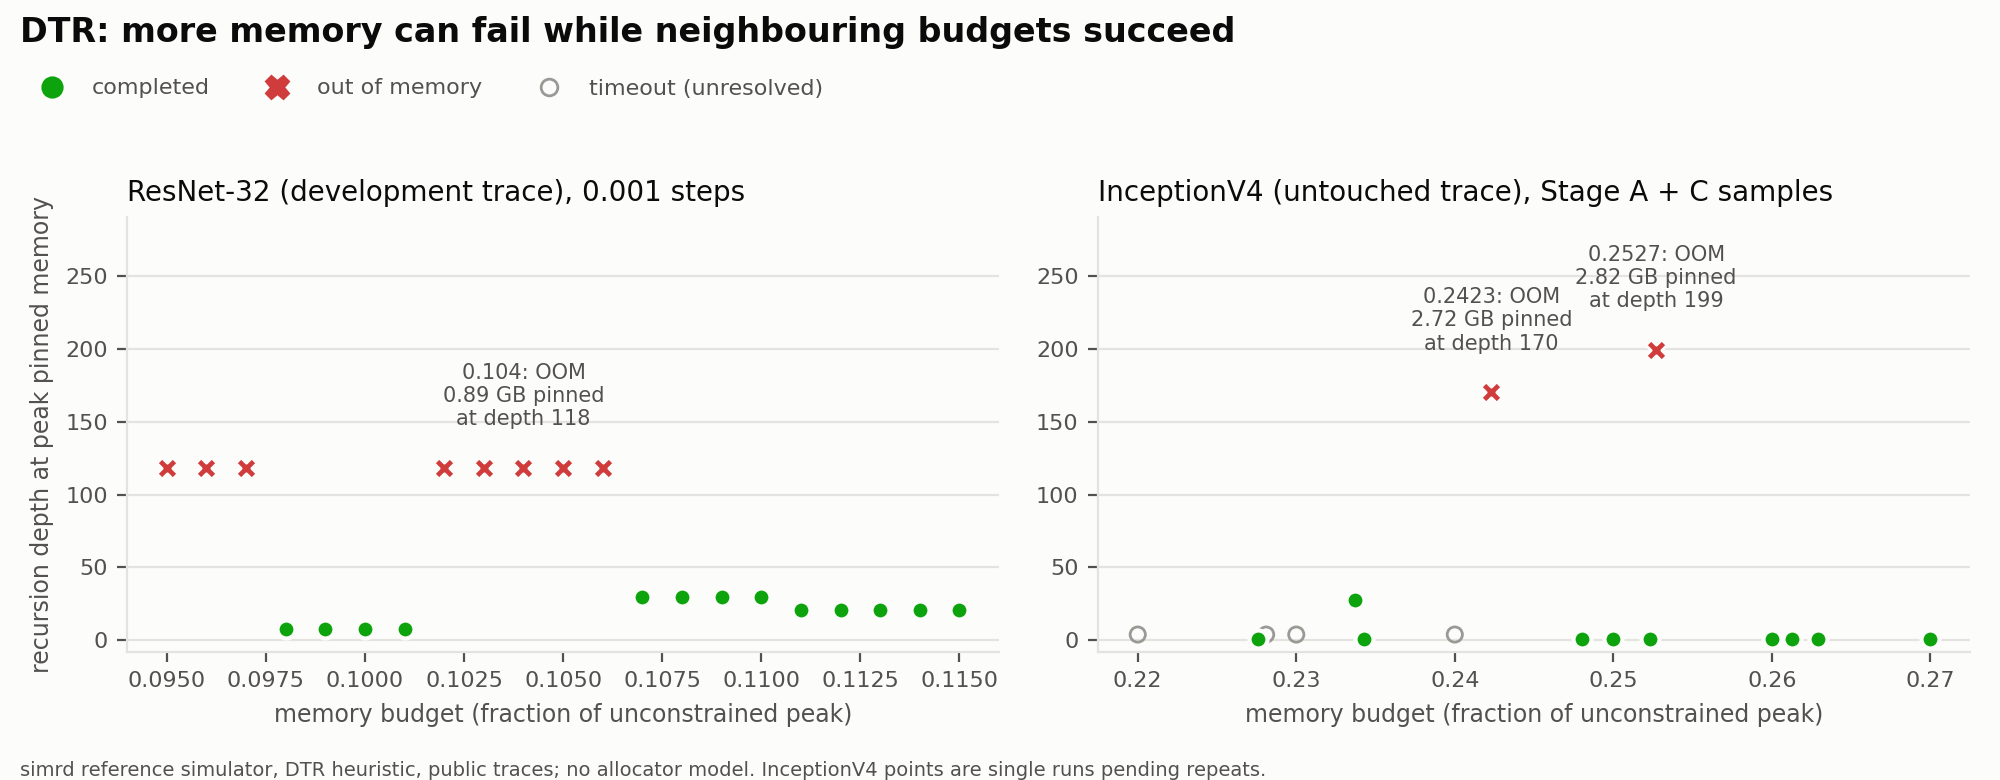
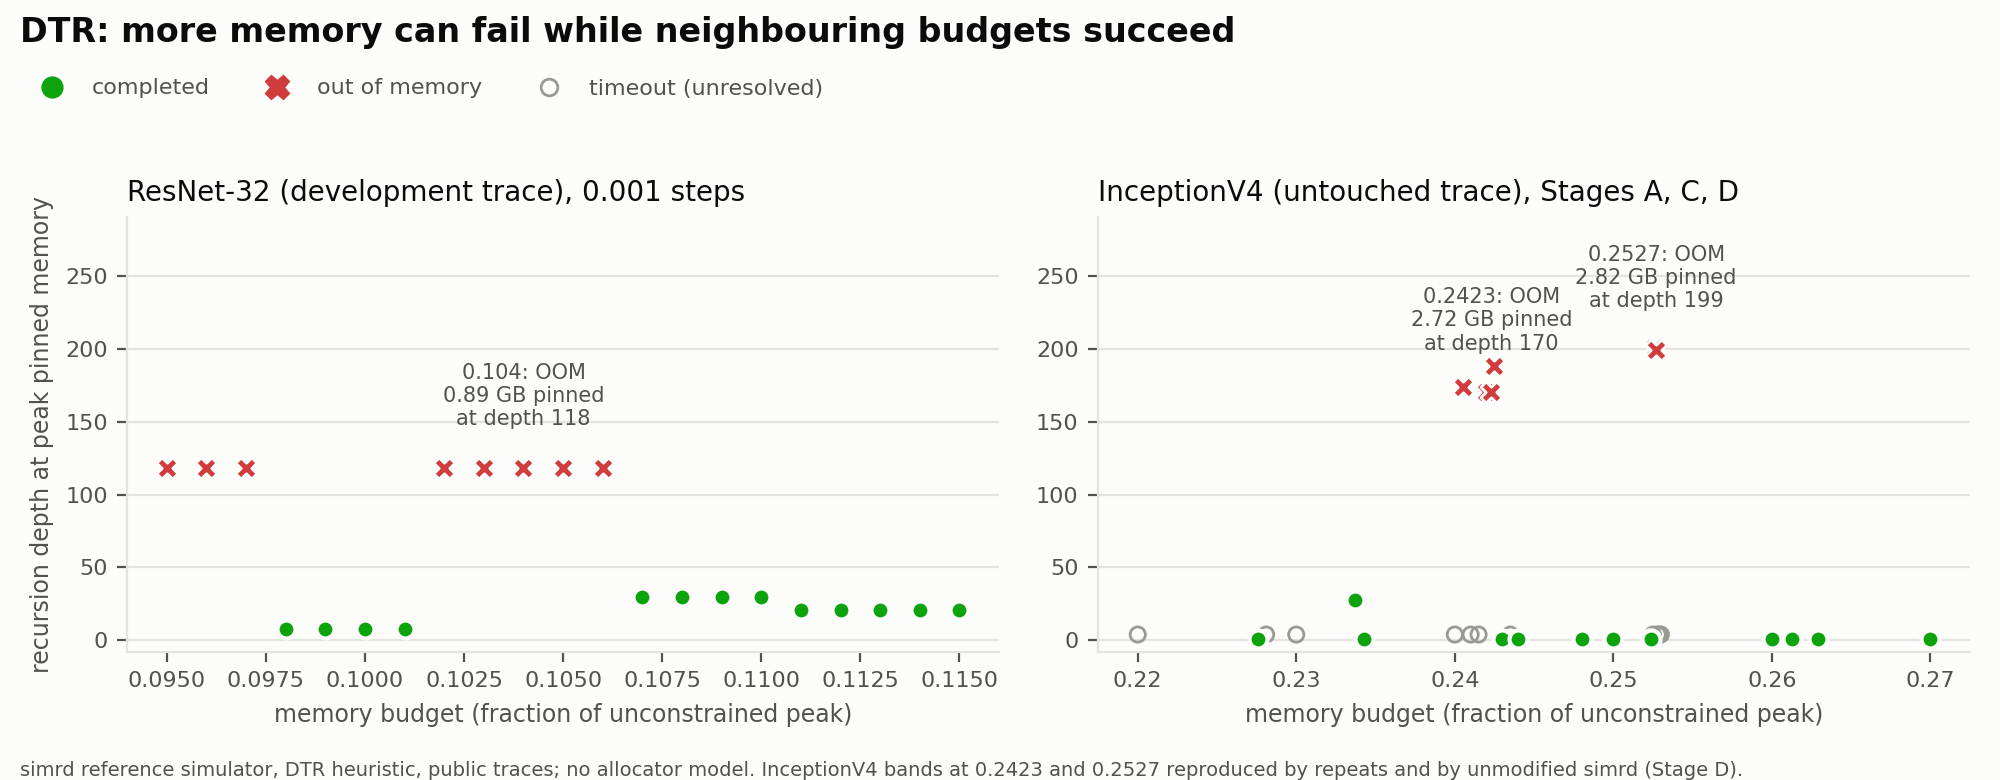
Stage D verdict: InceptionV4 DTR bands reproduced by repeats and unmodified simrd; figure updated
Claude-Session: https://claude.ai/code/session_01JdWLBYNLdwDqfgoTaPBem6

diff --git a/figures/make_cliff_figure.py b/figures/make_cliff_figure.py
@@ -16,7 +16,7 @@ def resnet():
 
 def inception(lo=0.22, hi=0.27):
     last = {}
-    for f in ('protocol_A.jsonl', 'protocol_C.jsonl'):
+    for f in ('protocol_A.jsonl', 'protocol_C.jsonl', 'protocol_D.jsonl'):
         for l in open(f'{ROOT}/results/protocol/{f}'):
             r = json.loads(l)
             if r['model'] == 'inception' and r['heuristic'] == 'DTR' and lo <= r['ratio'] <= hi \
@@ -51,7 +51,7 @@ def panel(ax, recs, title, annotate):
 fig, axes = plt.subplots(1, 2, figsize=(10, 3.9), dpi=200, facecolor=SURF)
 for a in axes: a.set_facecolor(SURF)
 panel(axes[0], resnet(), 'ResNet-32 (development trace), 0.001 steps', [0.104])
-panel(axes[1], inception(), 'InceptionV4 (untouched trace), Stage A + C samples', [0.2423, 0.2527])
+panel(axes[1], inception(), 'InceptionV4 (untouched trace), Stages A, C, D', [0.2423, 0.2527])
 axes[0].set_ylabel('recursion depth at peak pinned memory', fontsize=8.5, color=INK2)
 h = [plt.Line2D([], [], ls='', marker='o', color=GOOD, ms=7, label='completed'),
      plt.Line2D([], [], ls='', marker='X', color=CRIT, ms=8, label='out of memory'),
@@ -60,7 +60,7 @@ fig.legend(handles=h, loc='upper left', bbox_to_anchor=(0.005, 0.925), ncol=3, f
 fig.suptitle('DTR: more memory can fail while neighbouring budgets succeed', x=0.01, ha='left',
              fontsize=12, color=INK, fontweight='bold')
 fig.text(0.01, 0.005, 'simrd reference simulator, DTR heuristic, public traces; no allocator model. '
-         'InceptionV4 points are single runs pending repeats.', fontsize=7, color=INK2)
+         'InceptionV4 bands at 0.2423 and 0.2527 reproduced by repeats and by unmodified simrd (Stage D).', fontsize=7, color=INK2)
 fig.tight_layout(rect=(0, 0.03, 1, 0.89))
 fig.savefig(f'{HERE}/fig_feasibility_cliffs.png', facecolor=SURF)
 fig.savefig(f'{HERE}/fig_feasibility_cliffs.pdf', facecolor=SURF)

diff --git a/results/protocol/STAGE_D.md b/results/protocol/STAGE_D.md
@@ -1,0 +1,46 @@
+# Stage D — InceptionV4 band confirmation (2026-09-27)
+
+Plan: PROTOCOL.md amendment 2026-09-27 (fixed before any point ran). DTR, simrd @ eff53cc4,
+60x cap, 20-min limit. Raw: protocol_D.jsonl (laptop), protocol_D_cloud.jsonl (2 reruns).
+
+## (1) Repeats, instrumented DTR — and (2) unmodified simrd (DTRStock)
+| Ratio | DTR rep 0 / 1 / 2 | DTRStock | Peak pinned, depth (DTR) |
+|---|---|---|---|
+| 0.2343 | ok / ok / ok (1.471x) | ok (1.471x) | 0.99 GB, 1 |
+| 0.2423 | OOM / OOM / timeout | **OOM** | 2.72 GB, 170 |
+| 0.248  | ok / ok / ok (1.366x) | ok (1.366x) | 0.99 GB, 1 |
+| 0.2523 | ok / ok / ok (1.378x) | ok (1.378x) | 0.99 GB, 1 |
+| 0.2527 | OOM / OOM / OOM | **OOM** | 2.82 GB, 199 |
+| 0.26   | ok / ok / ok (1.359x) | ok (1.359x) | 0.99 GB, 1 |
+
+Resolved repeats agree exactly (status, overhead, pinned bytes, depth). DTRStock gives the
+same status at all six points and identical overhead at every success, so the bands are not
+an effect of the instrumentation.
+
+## (3) Fine sweep, DTR, repeat 0
+| Ratio | Status | Pinned, depth |
+|---|---|---|
+| 0.2405 | OOM | 2.70 GB, 174 |
+| 0.2410, 0.2415 | timeout | – |
+| 0.2420 | OOM | 2.72 GB, 170 |
+| 0.2425 | OOM | 2.71 GB, 188 |
+| 0.2430 | ok 1.451x | 0.99 GB, 1 |
+| 0.2435 | timeout | – |
+| 0.2440 | ok 1.385x | 0.99 GB, 1 |
+| 0.2524 | ok 1.378x | 0.99 GB, 1 |
+| 0.2525 | timeout | – |
+| 0.2526 | OOM | 2.82 GB, 201 |
+| 0.2528, 0.2529, 0.2530 | timeout | – |
+
+Every resolved OOM took 780–1190 s, close to the 20-min limit, so the timeouts are
+unresolved and are not counted either way.
+
+## Verdict under the claim rule
+- **0.2527 band: confirmed.** 3/3 repeats OOM, DTRStock OOM, both neighbours succeed in
+  every repeat and in DTRStock. Lower edge between 0.2524 (ok) and 0.2526 (OOM).
+- **0.2423 band: confirmed with one unresolved repeat.** 2/2 resolved repeats OOM, DTRStock
+  OOM, independent OOMs at 0.2405, 0.2420, 0.2425; success at 0.2343 and from 0.2430. Rep 2
+  hit the 20-min limit; the rule does not define that case, so it is reported, not counted.
+  Upper edge between 0.2425 (OOM) and 0.2430 (ok).
+- Not established: exact band widths (timeouts at 0.2410/0.2415/0.2435/0.2525/0.2528–0.2530);
+  whether 0.2435 is a third band.

diff --git a/REPRODUCE.md b/REPRODUCE.md
@@ -32,13 +32,13 @@ and 0.107). Raw: `results/dev/resnet_DTR_pinned.json`.
 ```bash
 python harness.py inception DTR --ratios 0.2523,0.2527,0.26
 ```
-Expected (from Stage C; repeats pending):
+Expected (confirmed in Stage D by 3 repeats and unmodified simrd):
 ```
 inception DTR  0.2523 ok   1.378  pinned=0.99GB @depth 1
 inception DTR  0.2527 oom         pinned=2.82GB @depth 199
 inception DTR  0.26   ok   1.359  pinned=0.99GB @depth 1
 ```
-Raw: `results/protocol/protocol_A.jsonl`, `results/protocol/protocol_C.jsonl`
+Raw: `results/protocol/protocol_A.jsonl`, `protocol_C.jsonl`, `protocol_D.jsonl`
 (one JSON record per run; the last non-interrupted record per point counts, see
 `run_protocol.interrupted`).
 
@@ -50,7 +50,7 @@ python figures/make_cliff_figure.py   # -> figures/fig_feasibility_cliffs.{png,p
 ## 5. The full confirmatory protocol
 `PROTOCOL.md` (plan, hypotheses, claim rules, dated deviations) is run by
 `run_protocol.py` (`--stage A|C|B`), or on Windows by `run_windows.bat`.
-Summaries: `results/protocol/STAGE_A.md`, `results/protocol/STAGE_C_INTERIM.md`.
+Summaries: `results/protocol/STAGE_A.md`, `STAGE_C_INTERIM.md`, `STAGE_D.md`.
 
 ## Metrics
 - *status*: ok / oom (evictable pool empty, allocation still does not fit) /

diff --git a/PROTOCOL.md b/PROTOCOL.md
@@ -163,3 +163,7 @@ runs in its own process. Hardware: 2-vCPU cloud container unless stated.
   Claim rule: the InceptionV4 bands are called confirmed only if all repeats agree AND
   DTRStock gives the same statuses at all six points; a DTRStock disagreement is reported as
   an instrumentation effect and the band is withdrawn.
+- 2026-09-27, execution only: DTRStock at 0.2423 and 0.2527 ended as 'timeout' after 7,091 s
+  (laptop slept; interruption artefacts). They were rerun once in the cloud container
+  (same code, same simrd commit, same 20-min limit) into protocol_D_cloud.jsonl: both OOM.
+  Earlier cross-platform checks found identical outcomes on Linux and Windows.
